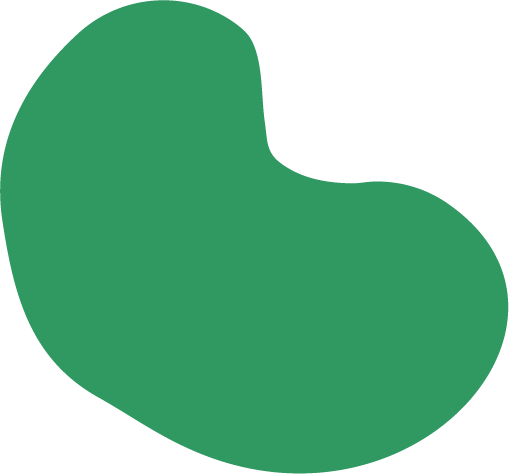
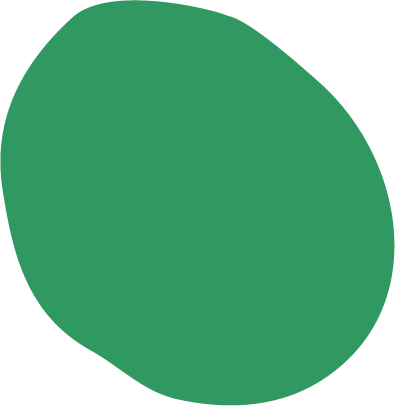
profile pic ratio fixed

diff --git a/css/main.css b/css/main.css
@@ -121,7 +121,7 @@ h2 {
   text-decoration: underline solid #D07676 2px;
   text-underline-offset: 4px;
   width: 100%;
-  margin-left: -5%;
+  margin-left: -3%;
 }
 
 .about-title {
@@ -131,7 +131,7 @@ h2 {
 }
 
 .skills-title {
-  margin-left: -10%;
+  margin-left: -8%;
 }
 
 .color-block {
@@ -264,9 +264,9 @@ ion-icon:active {
   box-shadow: 35px 35px #d07676d3;
   display:inline-flex;
   float:left;
-  margin: 8% 7%;
+  margin: 8% 5%;
   height: 450px;
-  width: 35%;
+  width: 450px;
   position: relative;
   z-index: 3;
 }
@@ -430,8 +430,9 @@ h5 {
 
 .color-block-4 {
   position: absolute;
-  top: 86%;
-  left: 0%;
+  top: 85%;
+  left: 3%;
+  transform: rotate(-10deg);
   z-index: 1;
 }
 
